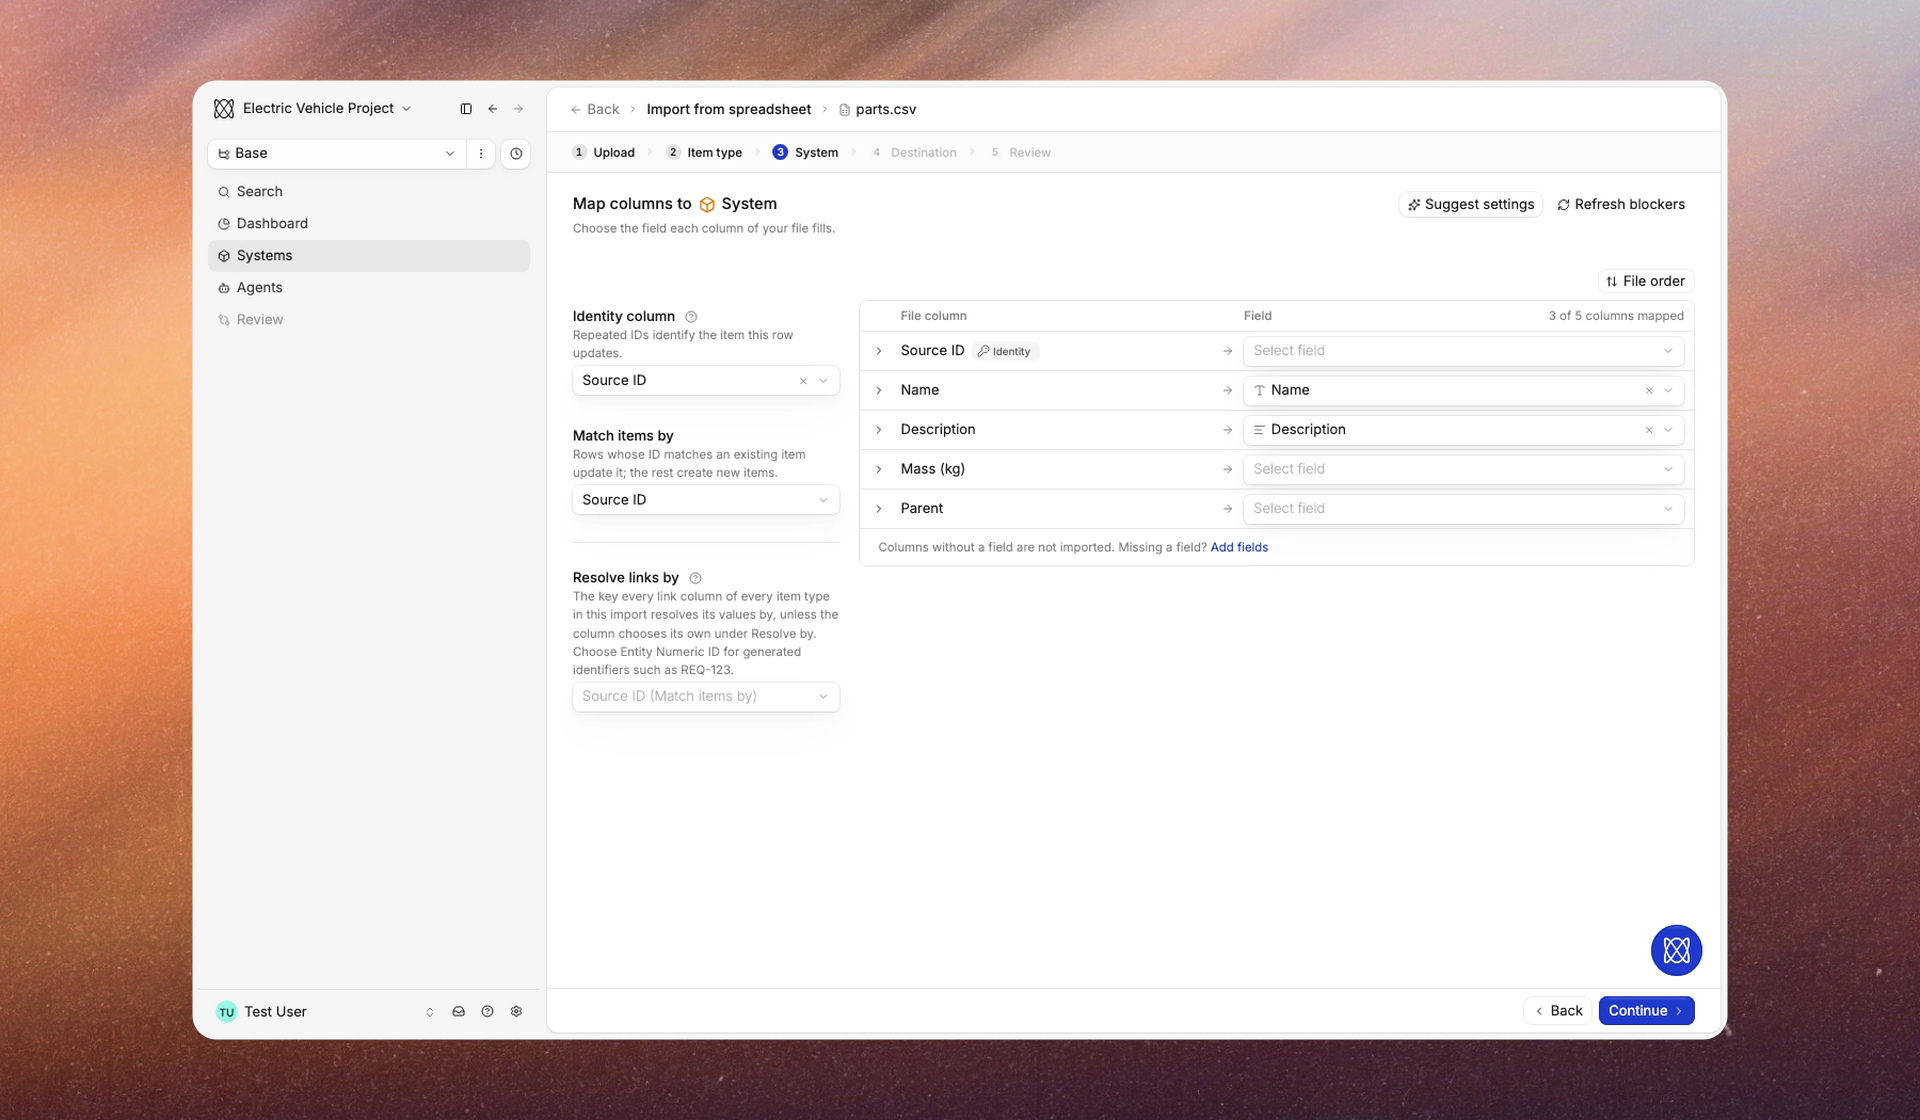
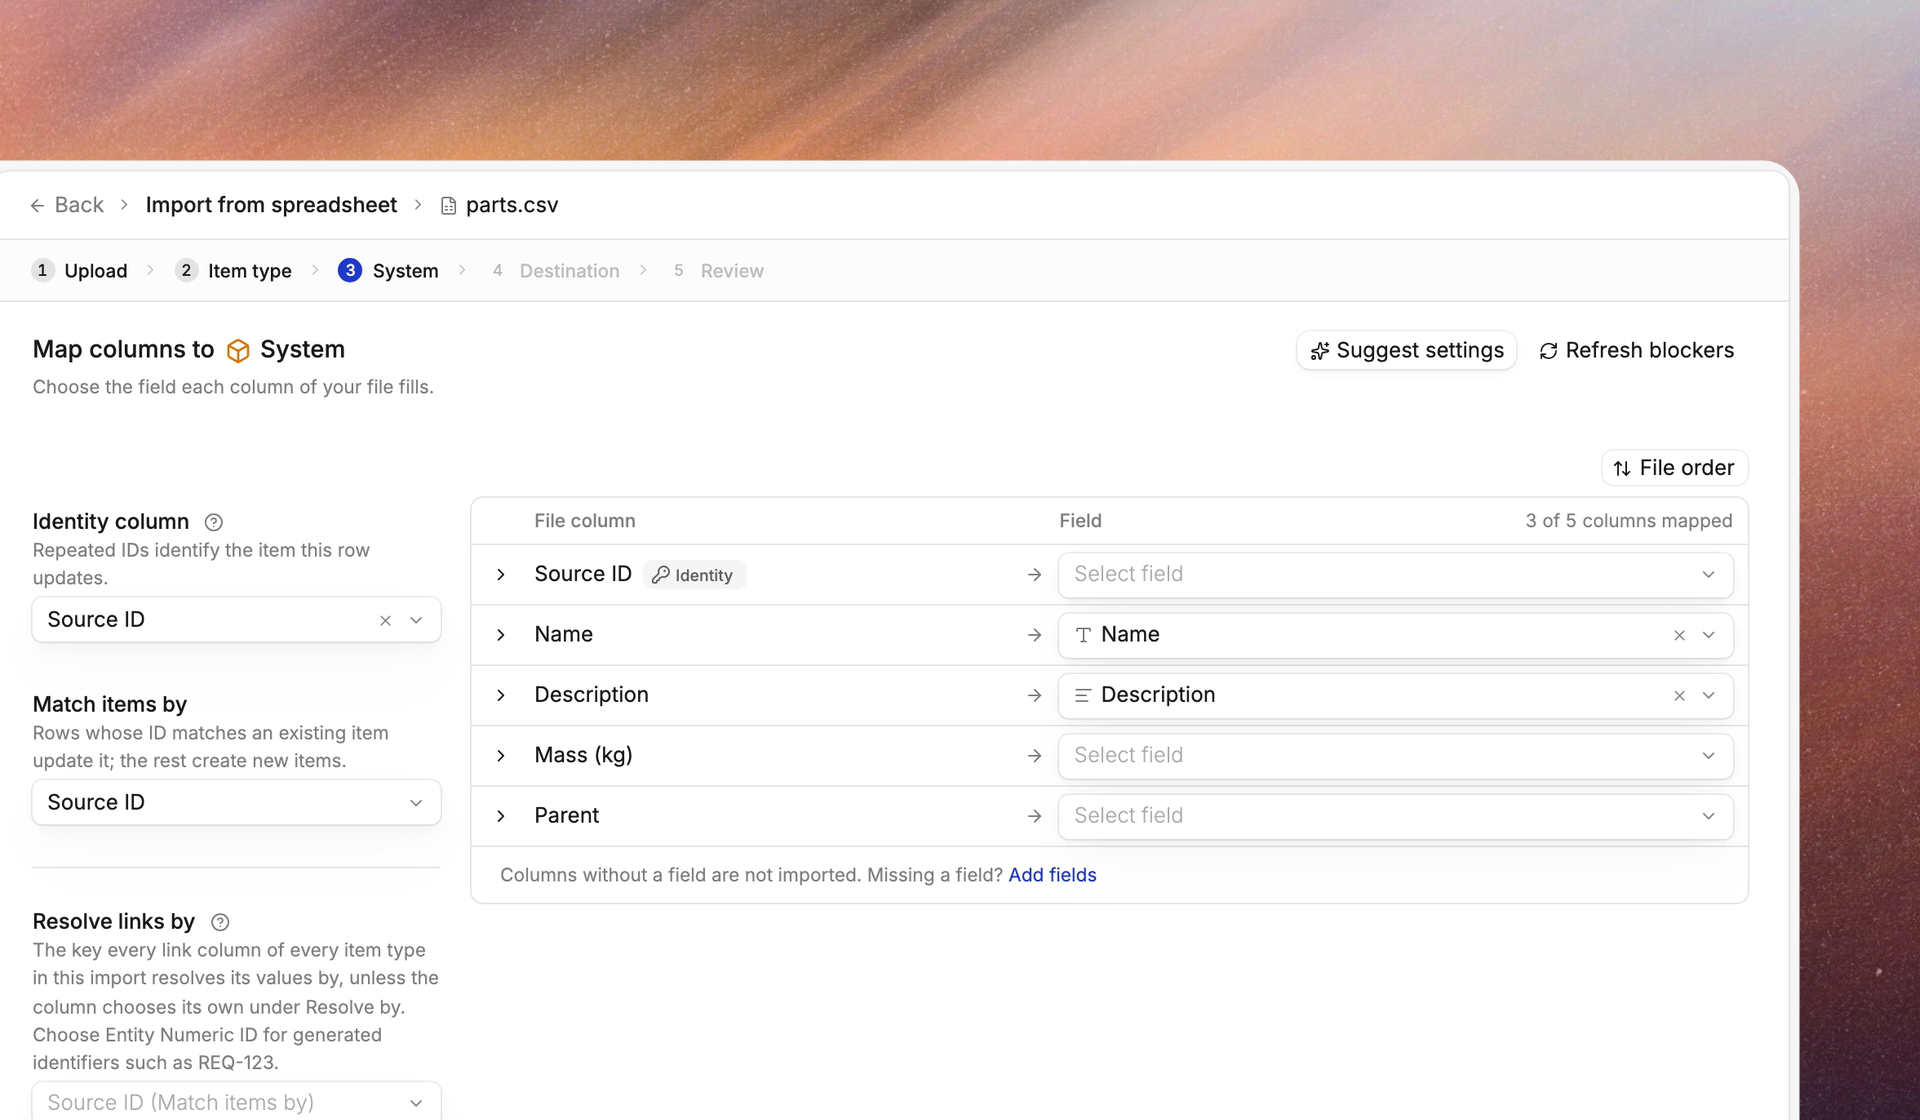
docs(guides): use feature closeups for focused Get started screenshots
Frames the two dialogs, the import mapping, the connected-thread panel and the
other-branch columns as brand feature closeups from 2x captures: the whole
window enlarged and running off the left and bottom edges. The three overview
shots return to the brand's 1920 x 1080 full-window frame. Adds the renderer
to the docs skill.

diff --git a/.claude/skills/flow-product-docs/screenshots/render.py b/.claude/skills/flow-product-docs/screenshots/render.py
@@ -1,0 +1,55 @@
+#!/usr/bin/env python3
+"""Frame raw product screenshots on the flow-brand background.
+
+Follows branch-demo's flow-brand product-media rules:
+
+- full: 1920 x 1080 canvas, the 1920 x 1120 background fitted (narrow black side
+  bars kept), the window at 1536 x 960 on (192, 60) with 24px rounded corners.
+- closeup: 1920 x 1120 canvas, the complete window enlarged to `width` and anchored
+  so it runs off the left and bottom edges, with background above and to the right.
+  Only the visible top-right window corner shows rounding.
+
+    python3 render.py <background.png> <raw.png> <out.png> full
+    python3 render.py <background.png> <raw.png> <out.png> closeup <width>
+
+Raw captures are 1440 x 900 viewports; closeups should come from a 2x capture.
+"""
+import subprocess
+import sys
+
+RIGHT, TOP = 120, 160  # closeup margins to the canvas's right and top edges
+
+
+def mask(width, height, radius):
+    return (
+        f"color=black:s={width}x{height}:r=30,format=gray,"
+        f"geq=lum='255*clip({radius}.5-hypot(max(max({radius}-X,X-(W-{radius + 1})),0),"
+        f"max(max({radius}-Y,Y-(H-{radius + 1})),0)),0,1)',trim=end_frame=1[mask];"
+    )
+
+
+def render(background, raw, out, mode, width=None):
+    if mode == "full":
+        w, h, x, y, canvas, radius = 1536, 960, 192, 60, (1920, 1080), 24
+        bg = "[0:v]scale=1920:1080:force_original_aspect_ratio=decrease,pad=1920:1080:(ow-iw)/2:(oh-ih)/2,setsar=1[bg];"
+    else:
+        w = int(width)
+        h = round(w * 900 / 1440)
+        x, y, canvas, radius = 1920 - RIGHT - w, TOP, (1920, 1120), round(24 * w / 1536)
+        bg = "[0:v]scale=1920:1120,setsar=1[bg];"
+    graph = (
+        bg
+        + f"[1:v]scale={w}:{h}:flags=lanczos,setsar=1[ui];"
+        + mask(w, h, radius)
+        + f"[ui][mask]alphamerge[rounded];[bg][rounded]overlay={x}:{y}[out]"
+    )
+    subprocess.run(
+        ["ffmpeg", "-nostdin", "-v", "error", "-y", "-i", background, "-i", raw,
+         "-filter_complex", graph, "-map", "[out]", "-frames:v", "1", out],
+        check=True,
+    )
+    return canvas
+
+
+if __name__ == "__main__":
+    render(*sys.argv[1:])

diff --git a/.claude/skills/flow-product-docs/SKILL.md b/.claude/skills/flow-product-docs/SKILL.md
@@ -94,6 +94,12 @@ On top of `AGENTS.md`'s content boundaries:
   (`references/product-media.md` and `references/backgrounds.md`): real product pixels
   from a disposable preview with the seeded Electric Vehicle demo, on the supplied
   logo-free backgrounds. Never AI-generated UI.
+- Screenshots are real captures from a branch-demo preview's Electric Vehicle
+  project (recipes in branch-demo `docs/media/`), framed with
+  `screenshots/render.py`. Use a full-window frame when the reader needs the
+  whole screen for orientation, and a closeup when the point is one dialog,
+  panel, or set of columns. Capture closeups at 2x so enlarged text stays crisp.
+  Keep real people's names out of frame; the seeded owners are colleagues.
 - Diagrams are drawn with the `flow-illustration` skill and placed with the
   `Illustration` snippet; see `references/diagrams.md`. Placeholders are for screenshots.
 - No links to pages that are not in this repository.
